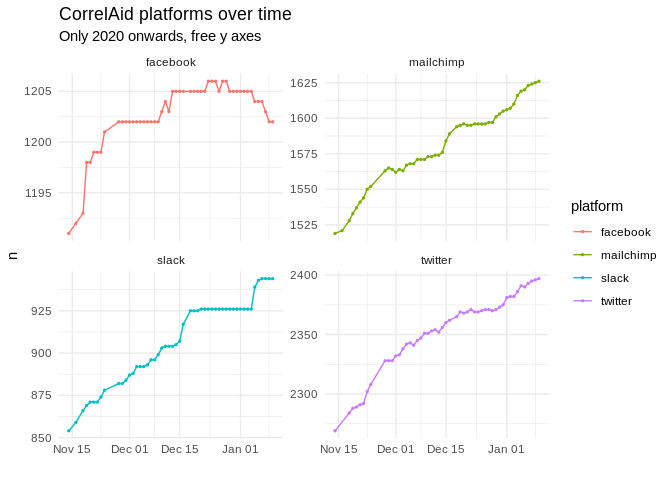
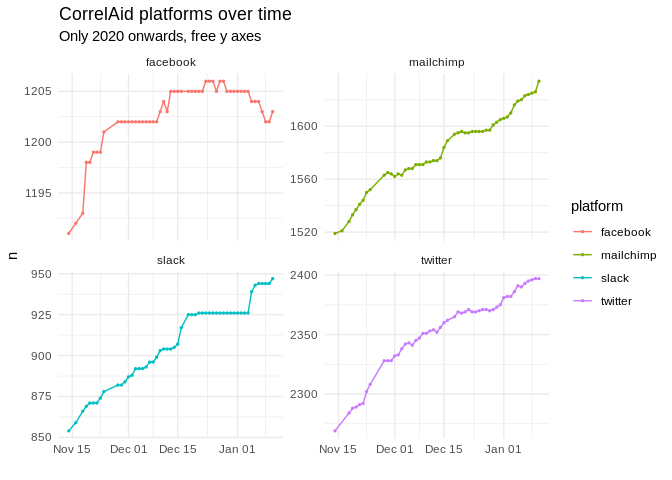
🤖 CRON - update daily data

diff --git a/README.md b/README.md
@@ -25,7 +25,7 @@ count and general network data on a daily basis using
 
 ### Plots
 
-*last updated*: 2021-01-10
+*last updated*: 2021-01-11
 23:50:12
 
 ![](README_files/figure-gfm/plot-alltime-1.png)<!-- -->
